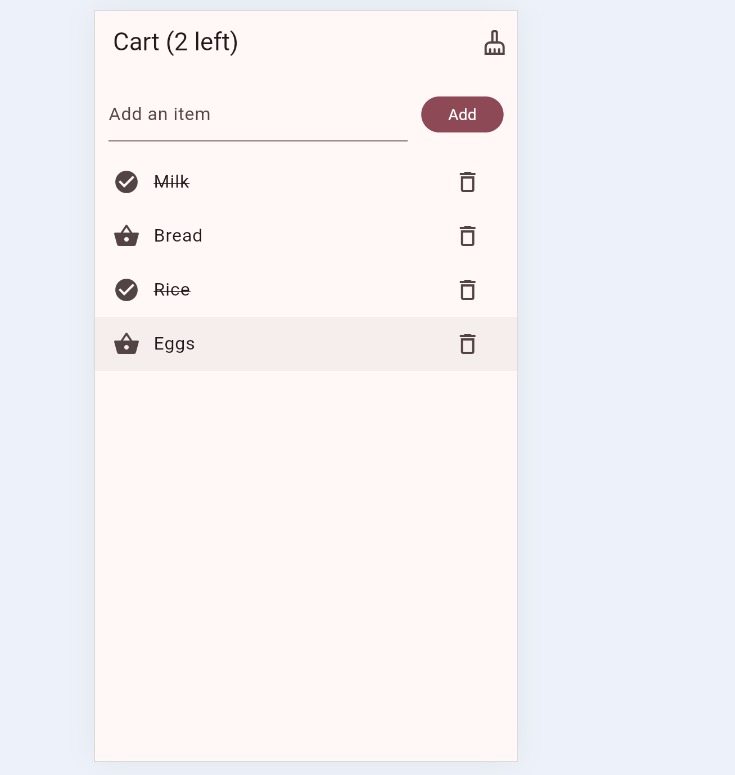
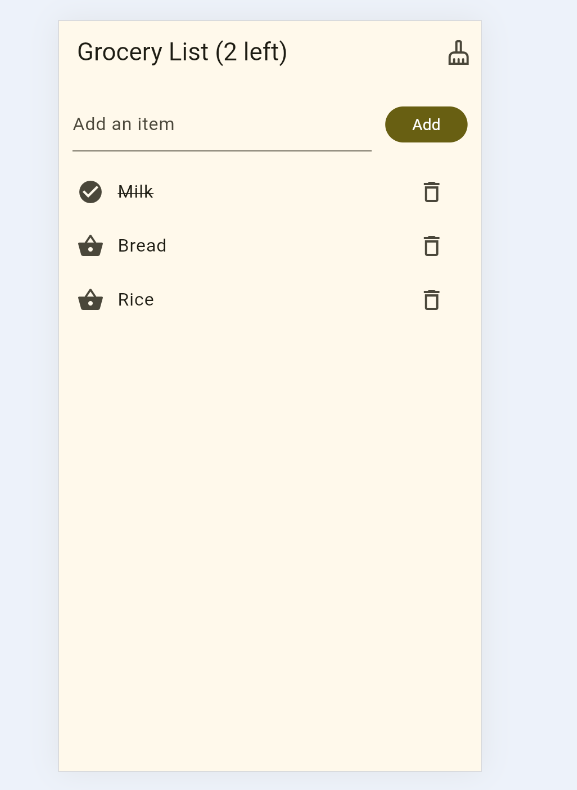
Grocery list app with screenshots

diff --git a/lib/main.dart b/lib/main.dart
@@ -18,8 +18,8 @@ class ShoppingApp extends StatelessWidget {
   Widget build(BuildContext context) {
     return MaterialApp(
       debugShowCheckedModeBanner: false,
-      theme: ThemeData(colorSchemeSeed: Colors.pink),
-      home: const HomeScreen(title: 'Cart'),
+      theme: ThemeData(colorSchemeSeed: Colors.yellow),
+      home: const HomeScreen(title: 'Grocery List'),
     );
   }
 }

diff --git a/Readme.md b/Readme.md
@@ -1,6 +1,6 @@
-# Shopping List
+# Grocery List
 
-A simple Flutter shopping list app where you can add items, mark them as bought, delete them, and see how many items are left.
+A simple Flutter app to plan grocery shopping: add items, tick them off as you buy them, and remove what you no longer need.
 
 ## Screenshots
 
